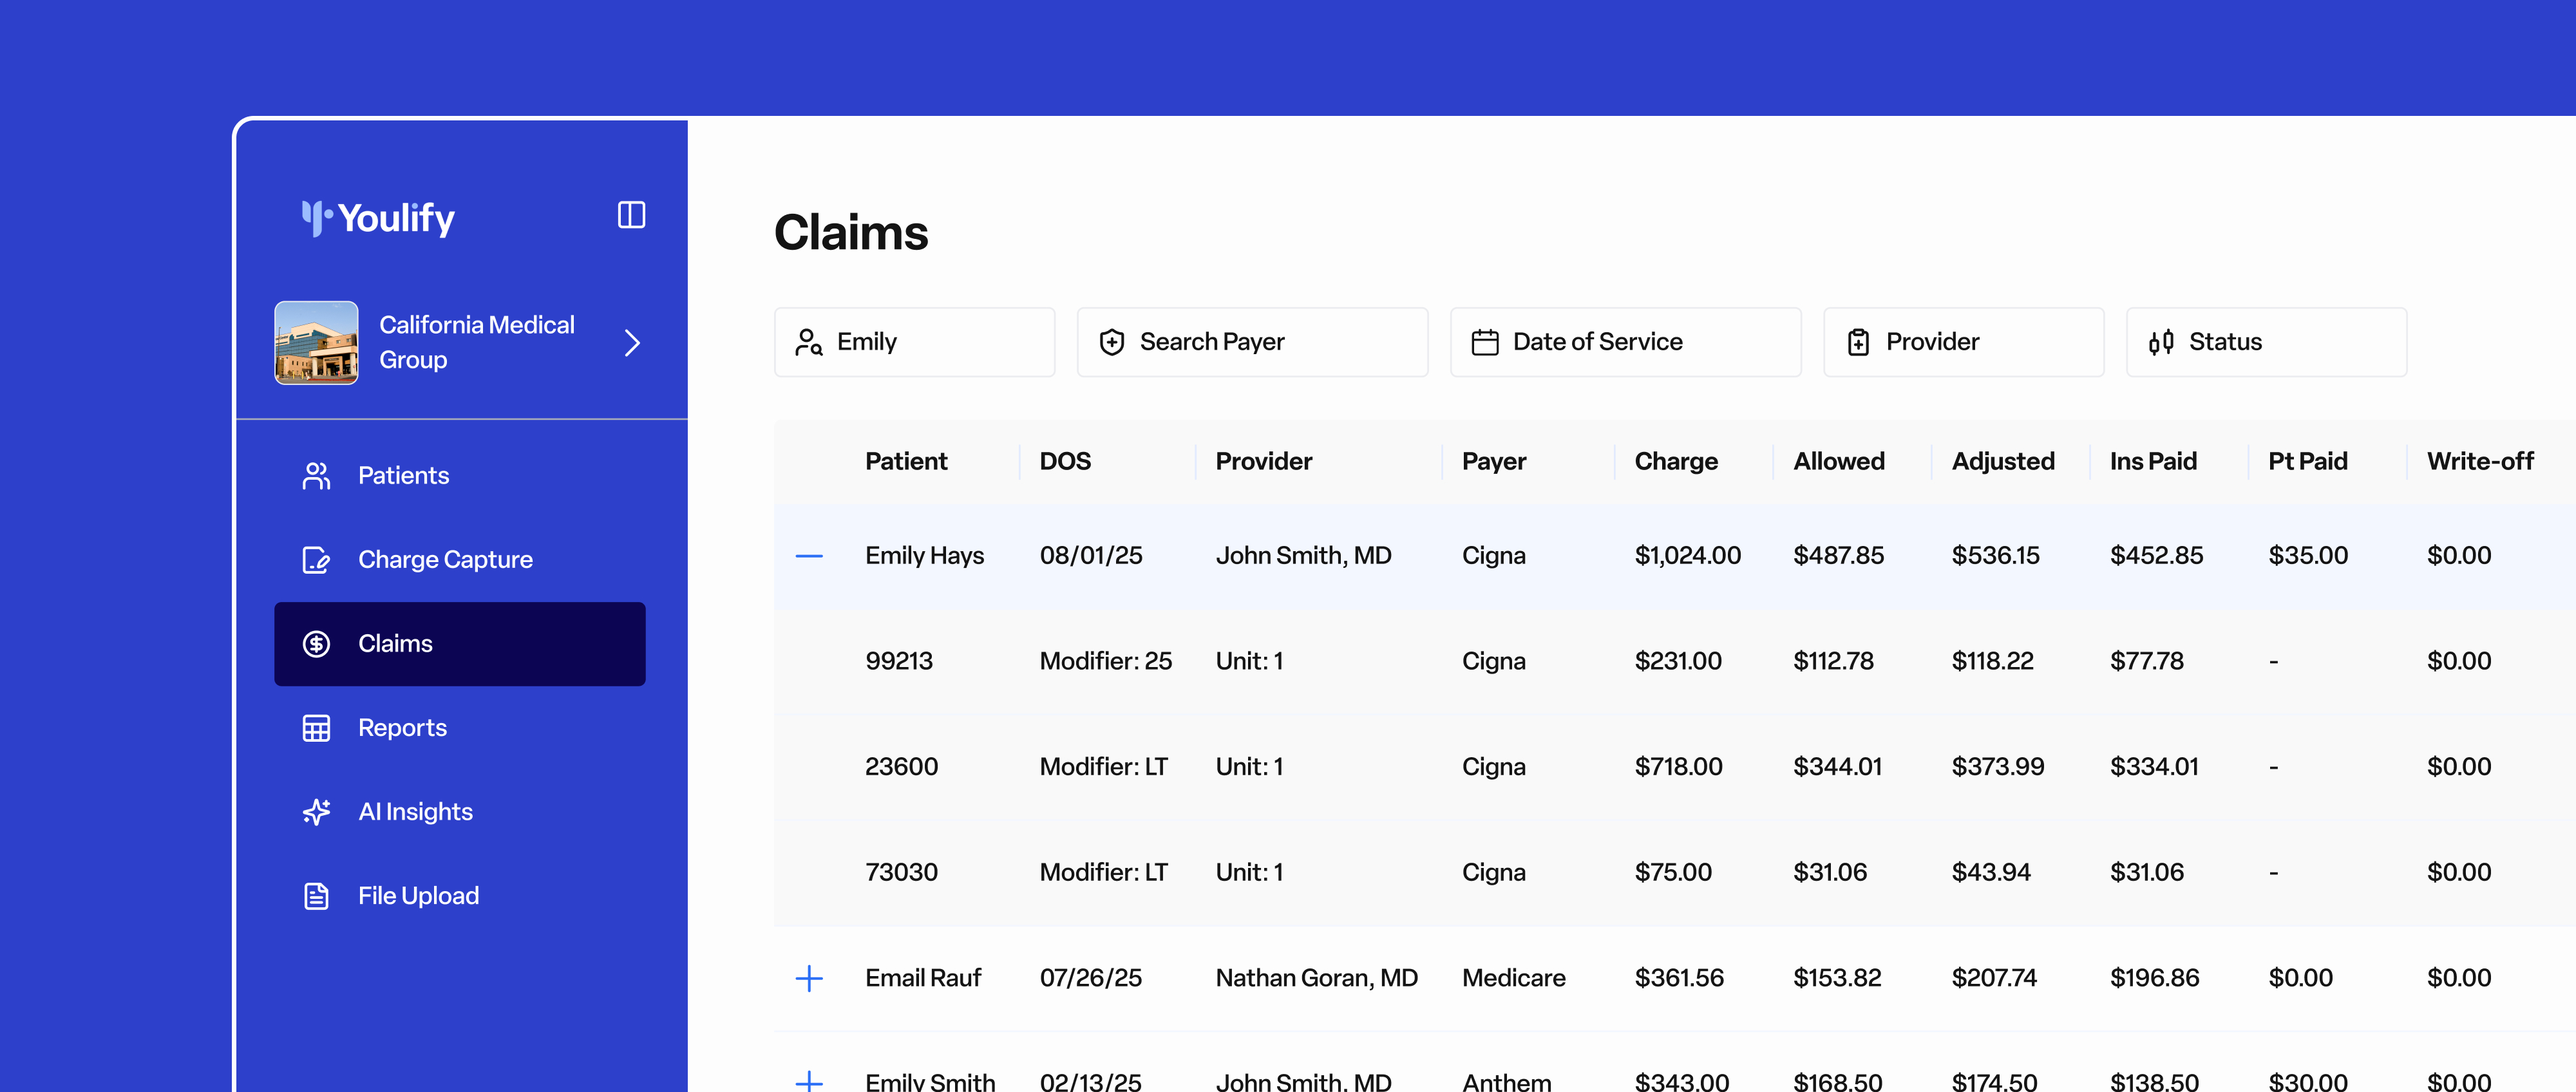
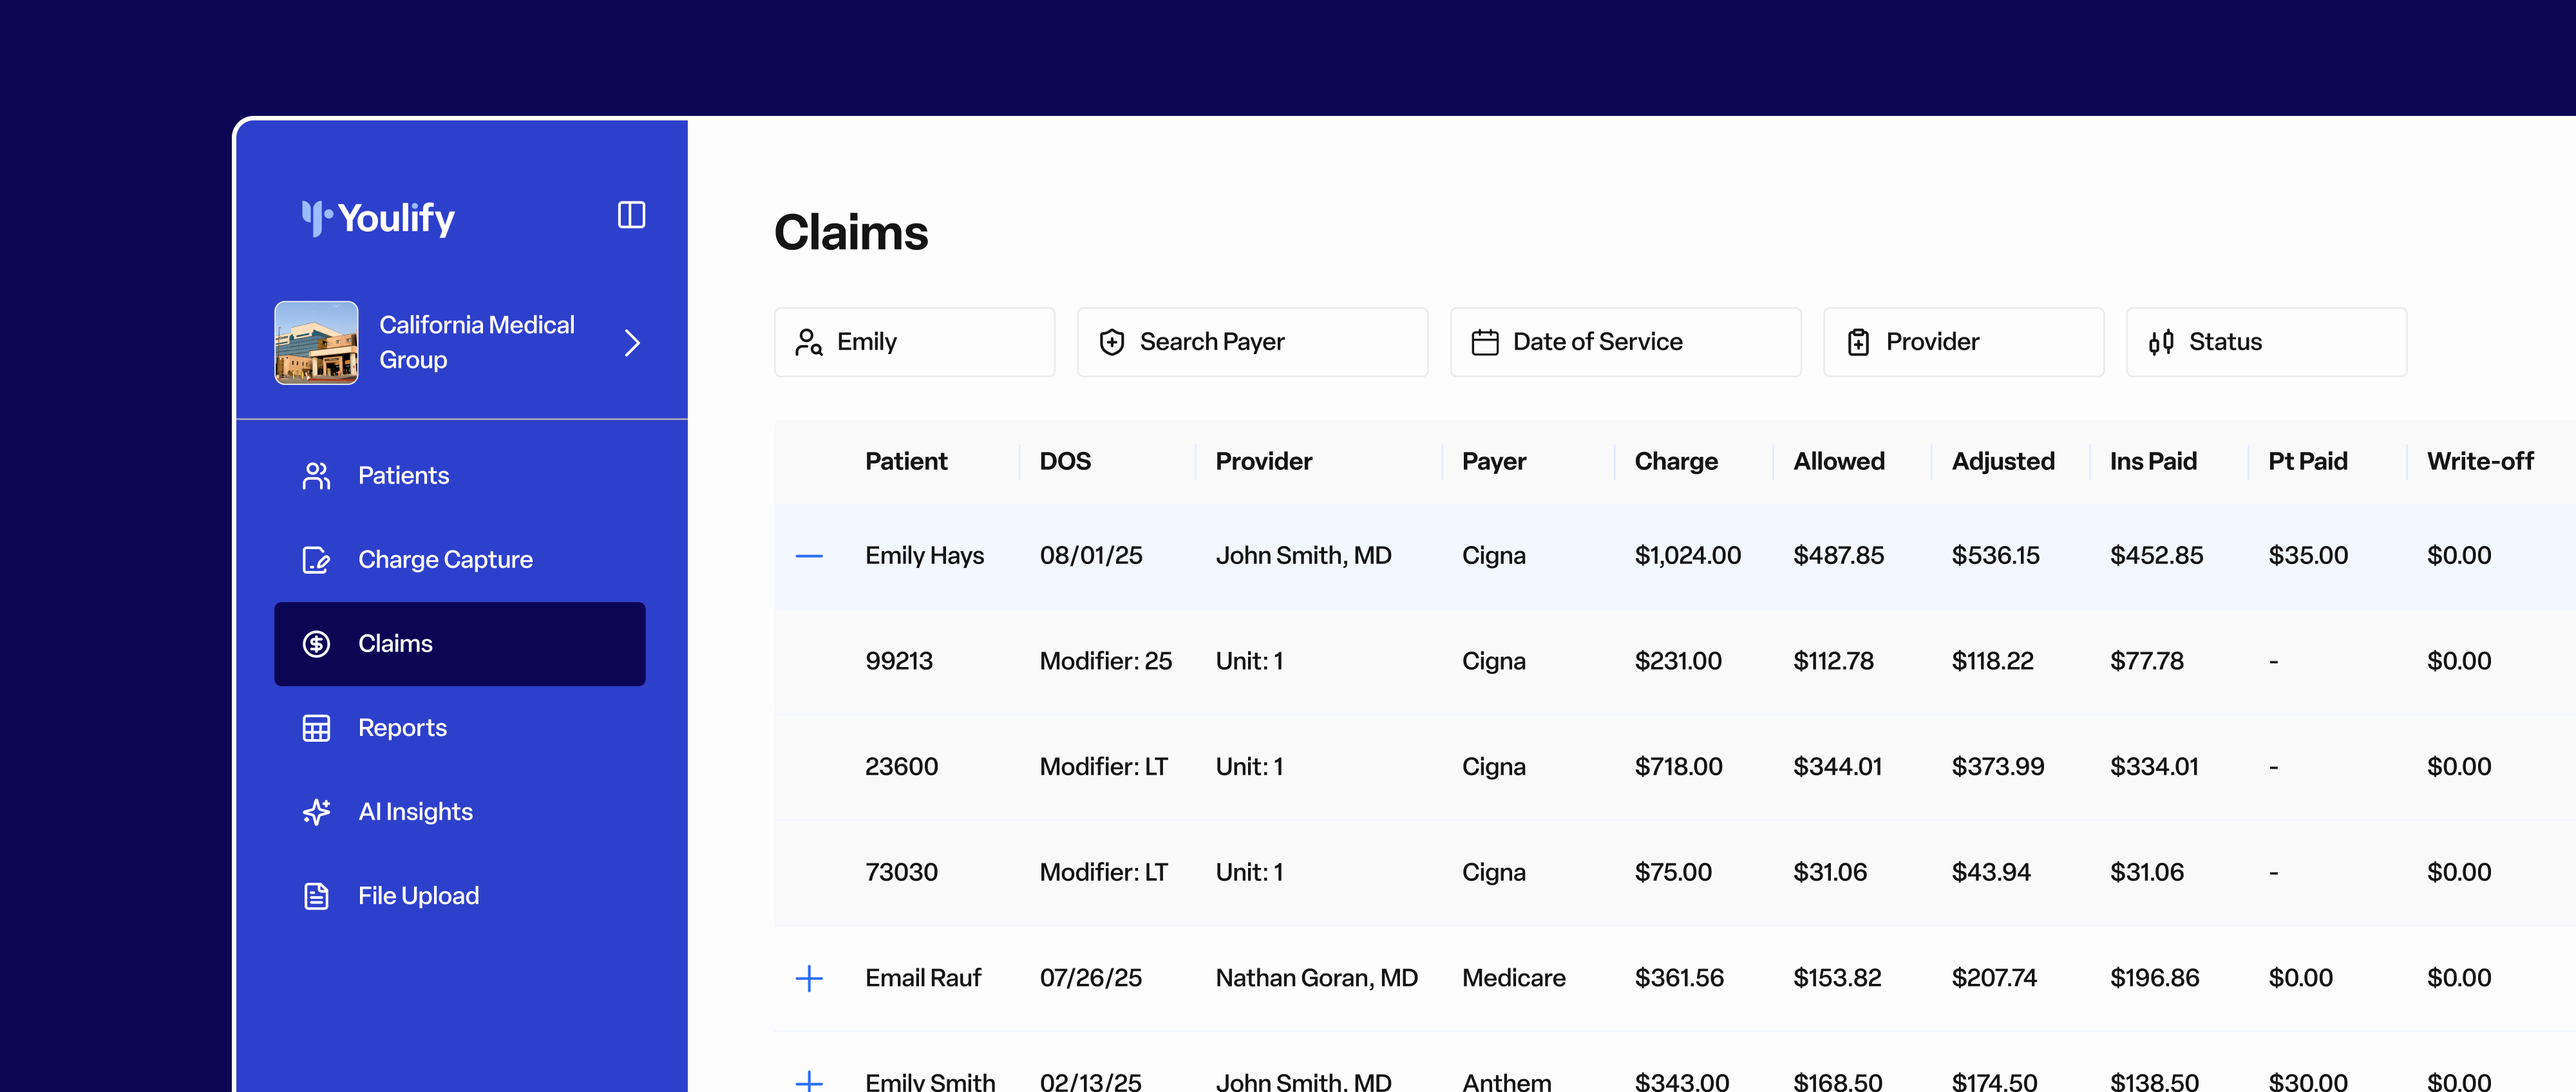
20260806 2
top nav mobile responsiveness and new homepage image

Changed region(s): [[0.0, 0.0, 1.0, 1.0]]

diff --git a/index.html b/index.html
@@ -103,6 +103,46 @@
     height: 14px;
     flex-shrink: 0;
   }
+  .nav-toggle {
+    display: none;
+    width: 40px;
+    height: 40px;
+    margin-right: -8px;
+    padding: 0;
+    border: 0;
+    background: transparent;
+    color: var(--ink);
+    cursor: pointer;
+    align-items: center;
+    justify-content: center;
+    flex-shrink: 0;
+  }
+  .nav-toggle-bars {
+    display: block;
+    position: relative;
+    width: 18px;
+    height: 12px;
+  }
+  .nav-toggle-bars span {
+    position: absolute;
+    left: 0;
+    right: 0;
+    height: 1.5px;
+    background: currentColor;
+    transition: transform 0.2s ease, top 0.2s ease, opacity 0.2s ease;
+  }
+  .nav-toggle-bars span:nth-child(1) { top: 0; }
+  .nav-toggle-bars span:nth-child(2) { top: 5px; }
+  .nav-toggle-bars span:nth-child(3) { top: 10px; }
+  .nav.is-open .nav-toggle-bars span:nth-child(1) {
+    top: 5px;
+    transform: rotate(45deg);
+  }
+  .nav.is-open .nav-toggle-bars span:nth-child(2) { opacity: 0; }
+  .nav.is-open .nav-toggle-bars span:nth-child(3) {
+    top: 5px;
+    transform: rotate(-45deg);
+  }
 
   /* ---------- Hero ---------- */
   main { flex: 1; }
@@ -191,7 +231,29 @@
       min-height: 180px;
     }
     .hero h1 { font-size: 24px; }
-    .nav-links { gap: 18px; }
+    .nav-toggle { display: inline-flex; }
+    .nav-links {
+      display: none;
+      position: absolute;
+      top: var(--nav-h);
+      left: 0;
+      right: 0;
+      flex-direction: column;
+      align-items: stretch;
+      gap: 0;
+      padding: 8px var(--pad) 20px;
+      background: rgba(255, 255, 255, 0.98);
+      backdrop-filter: blur(10px);
+      -webkit-backdrop-filter: blur(10px);
+      border-bottom: 1px solid var(--line);
+    }
+    .nav.is-open .nav-links { display: flex; }
+    .nav-links > a,
+    .nav-clock {
+      padding: 14px 0;
+      border-top: 1px solid var(--line);
+    }
+    .nav-divider { display: none; }
   }
 
   @media (prefers-reduced-motion: reduce) {
@@ -210,7 +272,12 @@
 <header class="nav">
   <div class="wrap">
     <a href="index.html" class="logo">Tingyu Su</a>
-    <nav class="nav-links" aria-label="Primary">
+    <button type="button" class="nav-toggle" aria-expanded="false" aria-controls="primary-nav" aria-label="Menu">
+      <span class="nav-toggle-bars" aria-hidden="true">
+        <span></span><span></span><span></span>
+      </span>
+    </button>
+    <nav class="nav-links" id="primary-nav" aria-label="Primary">
       <a href="work.html">Work</a>
       <a href="about.html">About</a>
       <span class="nav-divider" aria-hidden="true"></span>
@@ -302,6 +369,27 @@
       }
       tick();
       setInterval(tick, 1000);
+    }
+
+    var nav = document.querySelector(".nav");
+    var toggle = document.querySelector(".nav-toggle");
+    if (nav && toggle) {
+      function setOpen(open) {
+        nav.classList.toggle("is-open", open);
+        toggle.setAttribute("aria-expanded", open ? "true" : "false");
+      }
+      toggle.addEventListener("click", function () {
+        setOpen(!nav.classList.contains("is-open"));
+      });
+      document.addEventListener("keydown", function (e) {
+        if (e.key === "Escape") setOpen(false);
+      });
+      document.addEventListener("click", function (e) {
+        if (nav.classList.contains("is-open") && !nav.contains(e.target)) setOpen(false);
+      });
+      window.addEventListener("resize", function () {
+        if (window.matchMedia("(min-width: 861px)").matches) setOpen(false);
+      });
     }
   })();
 </script>

diff --git a/work.html b/work.html
@@ -103,6 +103,46 @@
     height: 14px;
     flex-shrink: 0;
   }
+  .nav-toggle {
+    display: none;
+    width: 40px;
+    height: 40px;
+    margin-right: -8px;
+    padding: 0;
+    border: 0;
+    background: transparent;
+    color: var(--ink);
+    cursor: pointer;
+    align-items: center;
+    justify-content: center;
+    flex-shrink: 0;
+  }
+  .nav-toggle-bars {
+    display: block;
+    position: relative;
+    width: 18px;
+    height: 12px;
+  }
+  .nav-toggle-bars span {
+    position: absolute;
+    left: 0;
+    right: 0;
+    height: 1.5px;
+    background: currentColor;
+    transition: transform 0.2s ease, top 0.2s ease, opacity 0.2s ease;
+  }
+  .nav-toggle-bars span:nth-child(1) { top: 0; }
+  .nav-toggle-bars span:nth-child(2) { top: 5px; }
+  .nav-toggle-bars span:nth-child(3) { top: 10px; }
+  .nav.is-open .nav-toggle-bars span:nth-child(1) {
+    top: 5px;
+    transform: rotate(45deg);
+  }
+  .nav.is-open .nav-toggle-bars span:nth-child(2) { opacity: 0; }
+  .nav.is-open .nav-toggle-bars span:nth-child(3) {
+    top: 5px;
+    transform: rotate(-45deg);
+  }
 
   /* ---------- Projects ---------- */
   main { flex: 1; }
@@ -254,7 +294,29 @@
       white-space: nowrap;
     }
     .project-desc { max-width: none; }
-    .nav-links { gap: 18px; }
+    .nav-toggle { display: inline-flex; }
+    .nav-links {
+      display: none;
+      position: absolute;
+      top: var(--nav-h);
+      left: 0;
+      right: 0;
+      flex-direction: column;
+      align-items: stretch;
+      gap: 0;
+      padding: 8px var(--pad) 20px;
+      background: rgba(255, 255, 255, 0.98);
+      backdrop-filter: blur(10px);
+      -webkit-backdrop-filter: blur(10px);
+      border-bottom: 1px solid var(--line);
+    }
+    .nav.is-open .nav-links { display: flex; }
+    .nav-links > a,
+    .nav-clock {
+      padding: 14px 0;
+      border-top: 1px solid var(--line);
+    }
+    .nav-divider { display: none; }
   }
 
   @media (prefers-reduced-motion: reduce) {
@@ -272,7 +334,12 @@
 <header class="nav">
   <div class="wrap">
     <a href="index.html" class="logo">Tingyu Su</a>
-    <nav class="nav-links" aria-label="Primary">
+    <button type="button" class="nav-toggle" aria-expanded="false" aria-controls="primary-nav" aria-label="Menu">
+      <span class="nav-toggle-bars" aria-hidden="true">
+        <span></span><span></span><span></span>
+      </span>
+    </button>
+    <nav class="nav-links" id="primary-nav" aria-label="Primary">
       <a href="work.html">Work</a>
       <a href="about.html">About</a>
       <span class="nav-divider" aria-hidden="true"></span>
@@ -396,6 +463,27 @@
     }
     tick();
     setInterval(tick, 1000);
+  })();
+  (function () {
+    var nav = document.querySelector(".nav");
+    var toggle = document.querySelector(".nav-toggle");
+    if (!nav || !toggle) return;
+    function setOpen(open) {
+      nav.classList.toggle("is-open", open);
+      toggle.setAttribute("aria-expanded", open ? "true" : "false");
+    }
+    toggle.addEventListener("click", function () {
+      setOpen(!nav.classList.contains("is-open"));
+    });
+    document.addEventListener("keydown", function (e) {
+      if (e.key === "Escape") setOpen(false);
+    });
+    document.addEventListener("click", function (e) {
+      if (nav.classList.contains("is-open") && !nav.contains(e.target)) setOpen(false);
+    });
+    window.addEventListener("resize", function () {
+      if (window.matchMedia("(min-width: 861px)").matches) setOpen(false);
+    });
   })();
 </script>
 

diff --git a/about.html b/about.html
@@ -101,6 +101,46 @@
     height: 14px;
     flex-shrink: 0;
   }
+  .nav-toggle {
+    display: none;
+    width: 40px;
+    height: 40px;
+    margin-right: -8px;
+    padding: 0;
+    border: 0;
+    background: transparent;
+    color: var(--ink);
+    cursor: pointer;
+    align-items: center;
+    justify-content: center;
+    flex-shrink: 0;
+  }
+  .nav-toggle-bars {
+    display: block;
+    position: relative;
+    width: 18px;
+    height: 12px;
+  }
+  .nav-toggle-bars span {
+    position: absolute;
+    left: 0;
+    right: 0;
+    height: 1.5px;
+    background: currentColor;
+    transition: transform 0.2s ease, top 0.2s ease, opacity 0.2s ease;
+  }
+  .nav-toggle-bars span:nth-child(1) { top: 0; }
+  .nav-toggle-bars span:nth-child(2) { top: 5px; }
+  .nav-toggle-bars span:nth-child(3) { top: 10px; }
+  .nav.is-open .nav-toggle-bars span:nth-child(1) {
+    top: 5px;
+    transform: rotate(45deg);
+  }
+  .nav.is-open .nav-toggle-bars span:nth-child(2) { opacity: 0; }
+  .nav.is-open .nav-toggle-bars span:nth-child(3) {
+    top: 5px;
+    transform: rotate(-45deg);
+  }
 
   main {
     flex: 1;
@@ -316,7 +356,29 @@
       grid-template-columns: 1fr;
       gap: 8px;
     }
-    .nav-links { gap: 18px; }
+    .nav-toggle { display: inline-flex; }
+    .nav-links {
+      display: none;
+      position: absolute;
+      top: var(--nav-h);
+      left: 0;
+      right: 0;
+      flex-direction: column;
+      align-items: stretch;
+      gap: 0;
+      padding: 8px var(--pad) 20px;
+      background: rgba(255, 255, 255, 0.98);
+      backdrop-filter: blur(10px);
+      -webkit-backdrop-filter: blur(10px);
+      border-bottom: 1px solid var(--line);
+    }
+    .nav.is-open .nav-links { display: flex; }
+    .nav-links > a,
+    .nav-clock {
+      padding: 14px 0;
+      border-top: 1px solid var(--line);
+    }
+    .nav-divider { display: none; }
   }
 
   :focus-visible {
@@ -334,7 +396,12 @@
 <header class="nav">
   <div class="wrap">
     <a href="index.html" class="logo">Tingyu Su</a>
-    <nav class="nav-links" aria-label="Primary">
+    <button type="button" class="nav-toggle" aria-expanded="false" aria-controls="primary-nav" aria-label="Menu">
+      <span class="nav-toggle-bars" aria-hidden="true">
+        <span></span><span></span><span></span>
+      </span>
+    </button>
+    <nav class="nav-links" id="primary-nav" aria-label="Primary">
       <a href="work.html">Work</a>
       <a href="about.html">About</a>
       <span class="nav-divider" aria-hidden="true"></span>
@@ -570,6 +637,27 @@
         }, fadeMs);
       }, holdMs);
     }
+  })();
+  (function () {
+    var nav = document.querySelector(".nav");
+    var toggle = document.querySelector(".nav-toggle");
+    if (!nav || !toggle) return;
+    function setOpen(open) {
+      nav.classList.toggle("is-open", open);
+      toggle.setAttribute("aria-expanded", open ? "true" : "false");
+    }
+    toggle.addEventListener("click", function () {
+      setOpen(!nav.classList.contains("is-open"));
+    });
+    document.addEventListener("keydown", function (e) {
+      if (e.key === "Escape") setOpen(false);
+    });
+    document.addEventListener("click", function (e) {
+      if (nav.classList.contains("is-open") && !nav.contains(e.target)) setOpen(false);
+    });
+    window.addEventListener("resize", function () {
+      if (window.matchMedia("(min-width: 861px)").matches) setOpen(false);
+    });
   })();
 </script>
 
